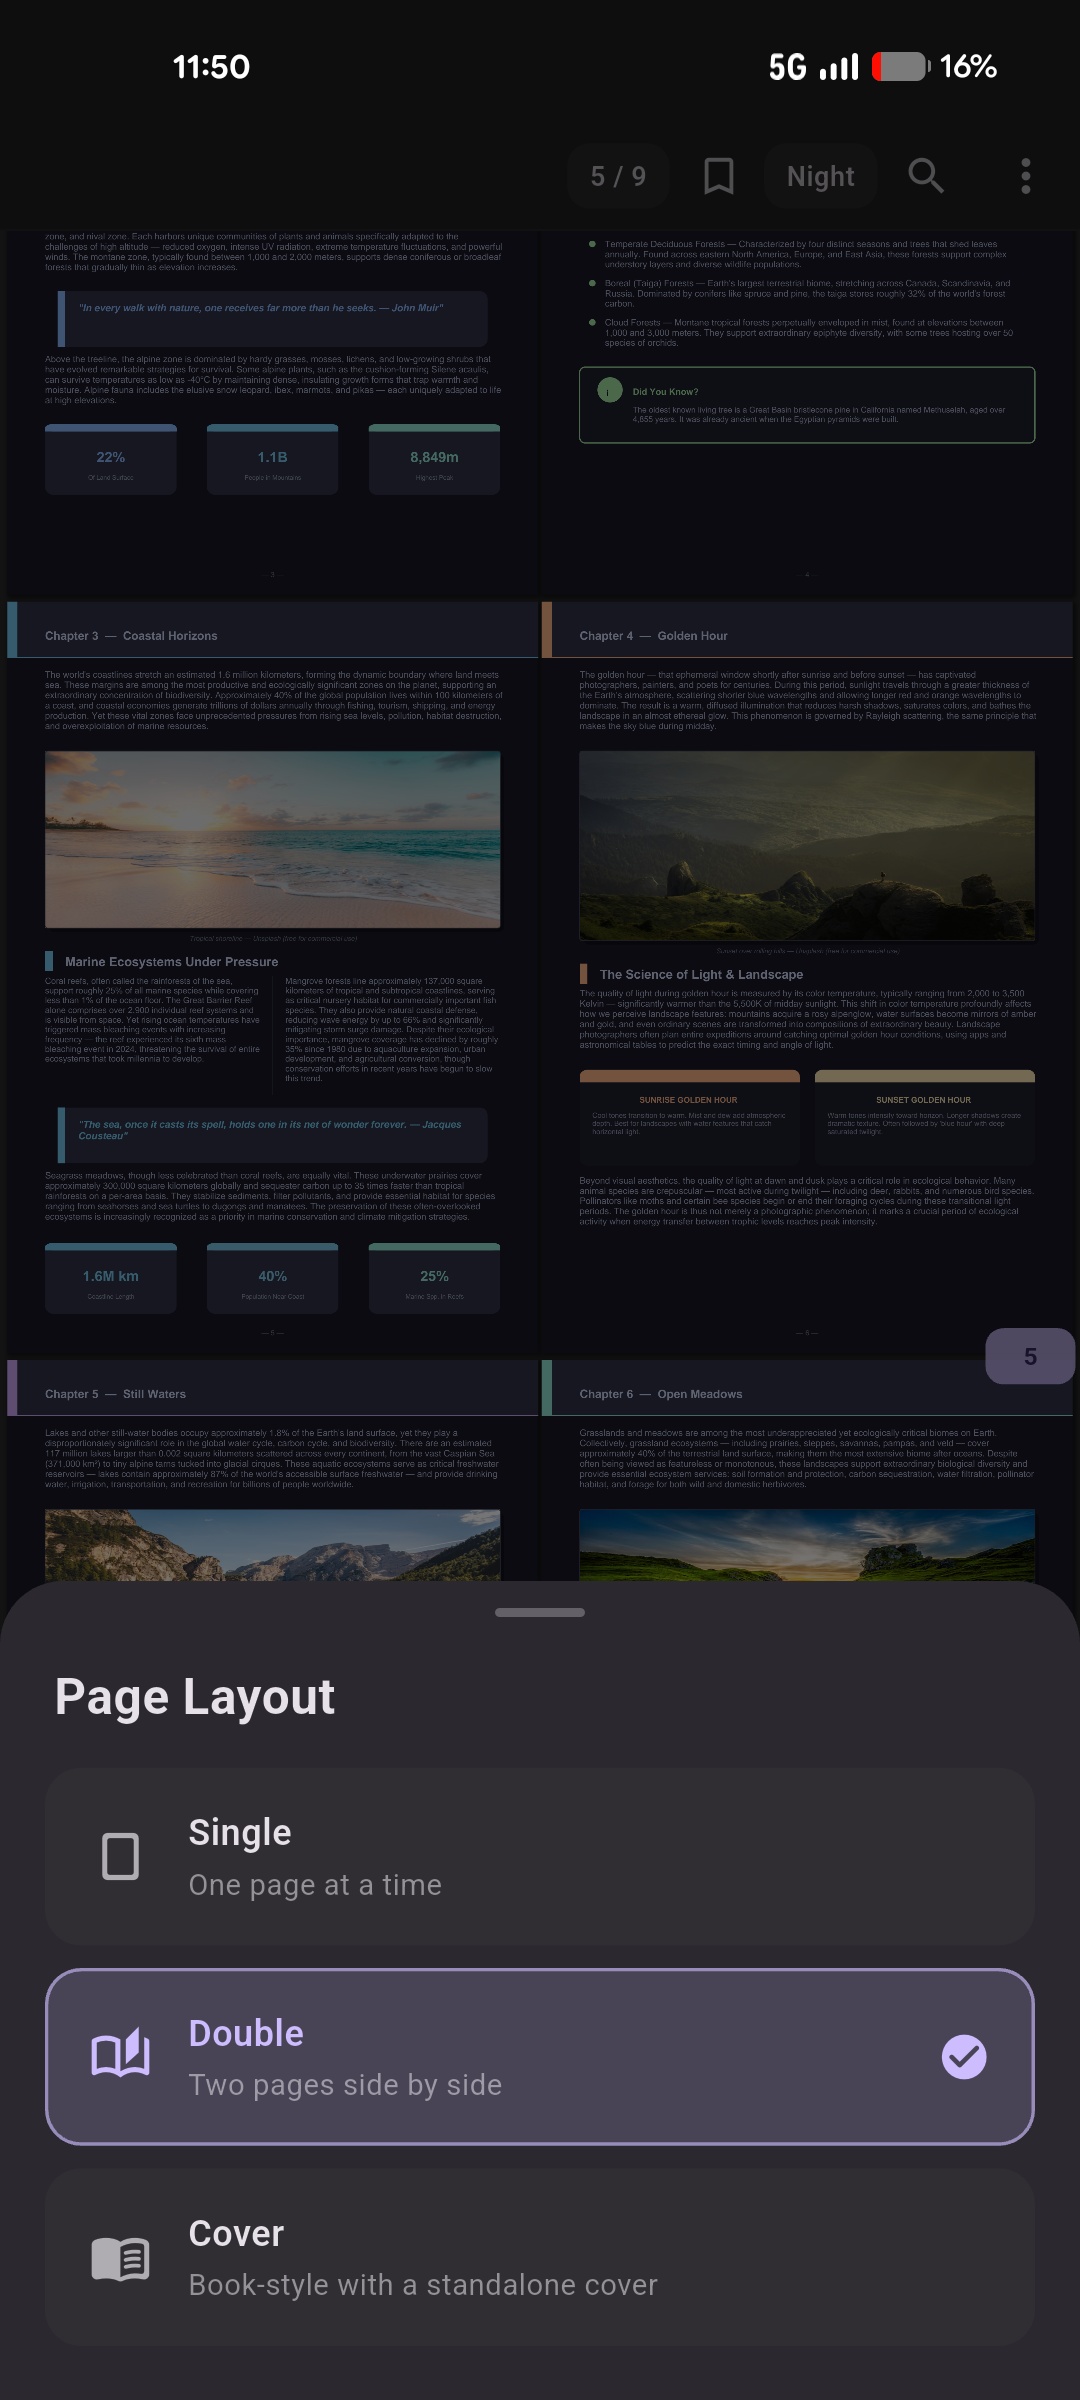
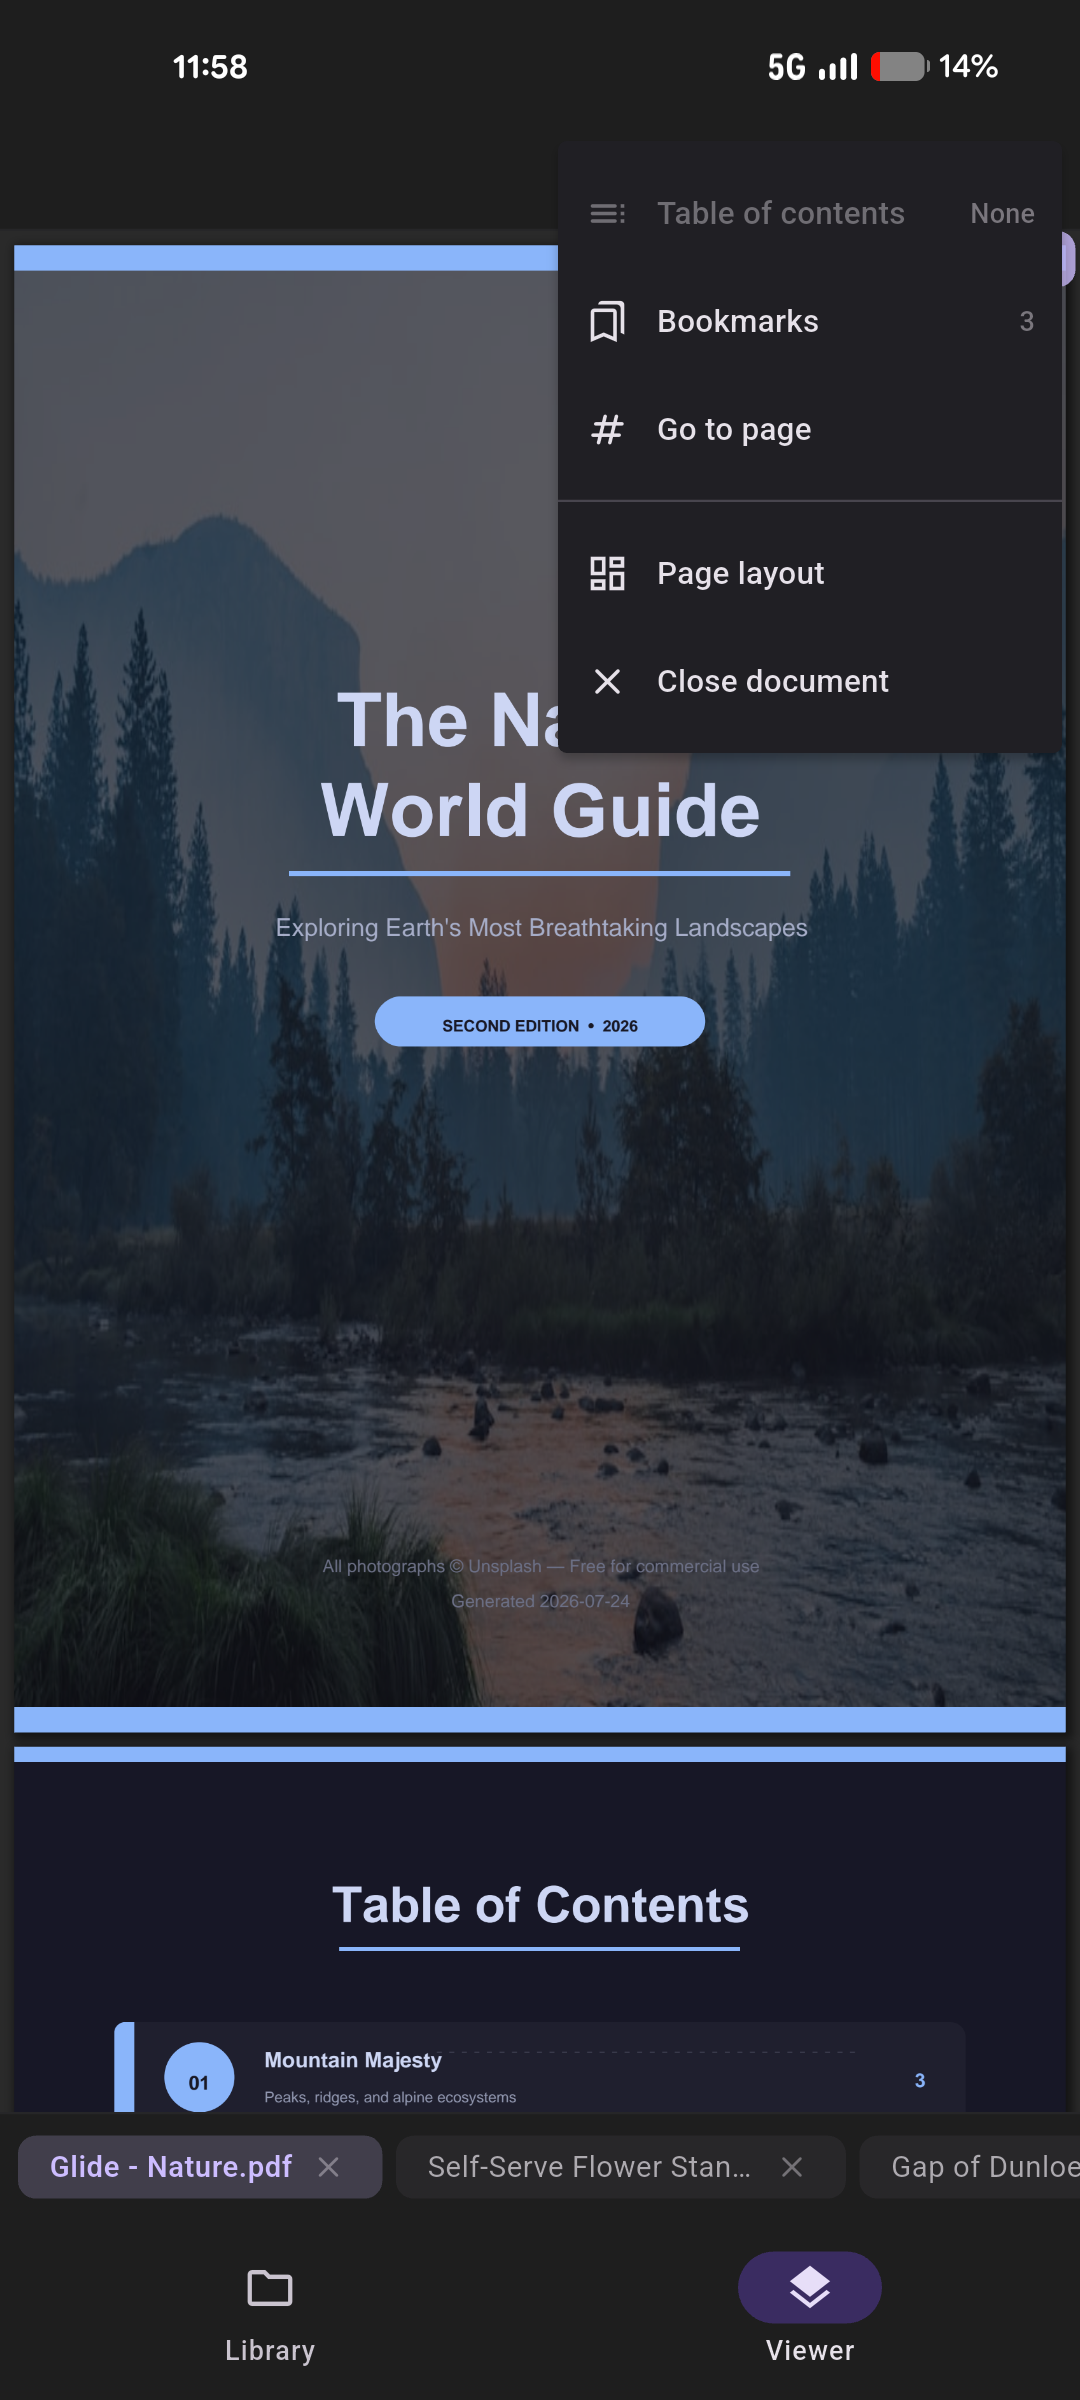
Fix Read it your way: Day + Night + Layouts cards, correct toolbar menu
- Restored Day card with day-mode reading screenshot
- Kept Night card with night-mode reading screenshot
- Added third 'Layouts' card showing Single/Double/Cover picker
- Widened dn grid to 3 columns to fit all three cards
- toolbar-menu.png now shows the toolbar overflow menu (ToC, Bookmarks,
  Go to page, Page layout, Close) for the 'Every control' section

diff --git a/index.html b/index.html
@@ -134,7 +134,7 @@
   .dual .phone{max-width:210px}
   .dual .phone:last-child{margin-top:36px}
   /* Day / Night — half-height device cards */
-  .dn{display:grid;grid-template-columns:1fr 1fr;gap:18px;width:100%;max-width:460px;margin:0 auto}
+  .dn{display:grid;grid-template-columns:1fr 1fr 1fr;gap:18px;width:100%;max-width:680px;margin:0 auto}
   .dn-card{position:relative;border:1px solid var(--line-2);border-radius:12px;overflow:hidden;background:#000;box-shadow:var(--shadow);aspect-ratio:5/6}
   .dn-card img{width:100%;height:100%;object-fit:cover;object-position:top center}
   .dn-card::after{content:"";position:absolute;inset:0;border-radius:12px;box-shadow:inset 0 1px 0 rgba(255,255,255,.14);pointer-events:none}
@@ -365,8 +365,9 @@
     </div>
     <div class="shot">
       <div class="dn">
-        <div class="dn-card"><span class="dn-label">Day</span><img loading="lazy" src="assets/screenshots/layout-day.jpg?v=4" alt="Page-grid layout in day mode" /></div>
-        <div class="dn-card"><span class="dn-label">Night</span><img loading="lazy" src="assets/screenshots/layout-night.png?v=4" alt="Page-grid layout in night mode" /></div>
+        <div class="dn-card"><span class="dn-label">Day</span><img loading="lazy" src="assets/screenshots/layout-day.jpg?v=7" alt="Page layout in day mode" /></div>
+        <div class="dn-card"><span class="dn-label">Night</span><img loading="lazy" src="assets/screenshots/layout-night.png?v=4" alt="Page layout in night mode" /></div>
+        <div class="dn-card"><span class="dn-label">Layouts</span><img loading="lazy" src="assets/screenshots/layout-picker.png?v=1" alt="Page Layout picker showing Single, Double and Cover options" /></div>
       </div>
     </div>
   </div>
@@ -385,7 +386,7 @@
         <li><svg width="18" height="18" viewBox="0 0 24 24" fill="none"><path d="M5 12l5 5L20 6" stroke="var(--g-lib)" stroke-width="2.5" stroke-linecap="round" stroke-linejoin="round"/></svg>Clean dark interface designed to disappear while you read</li>
       </ul>
     </div>
-    <div class="shot"><div class="phone"><img loading="lazy" src="assets/screenshots/toolbar-menu.png?v=6" alt="Reading toolbar menu open" width="1080" height="2400" /></div></div>
+    <div class="shot"><div class="phone"><img loading="lazy" src="assets/screenshots/toolbar-menu.png?v=7" alt="Toolbar overflow menu showing Table of Contents, Bookmarks, Go to page, Page layout and Close" width="1080" height="2400" /></div></div>
   </div>
 </section>
 
